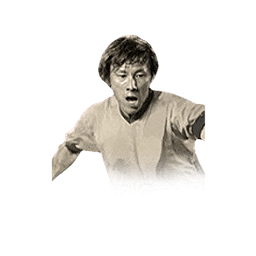
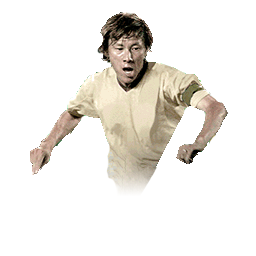
Updated FCMSquad

Changed region(s): [[0.0938, 0.0312, 0.9062, 0.75]]

diff --git a/fcmsquad/resources/faceData.js b/fcmsquad/resources/faceData.js
@@ -11731,7 +11731,8 @@ const faceData = [
         "idx": 1646,
         "pid": "266492",
         "images": [
-            "./resources/players/players_23/p266492_FD24_3D.png"
+            "./resources/players/players_23/p266492_FD24_3D.png",
+            "./resources/players/players_23/p266492_HT24_ICON.png"
         ]
     }
 ];
